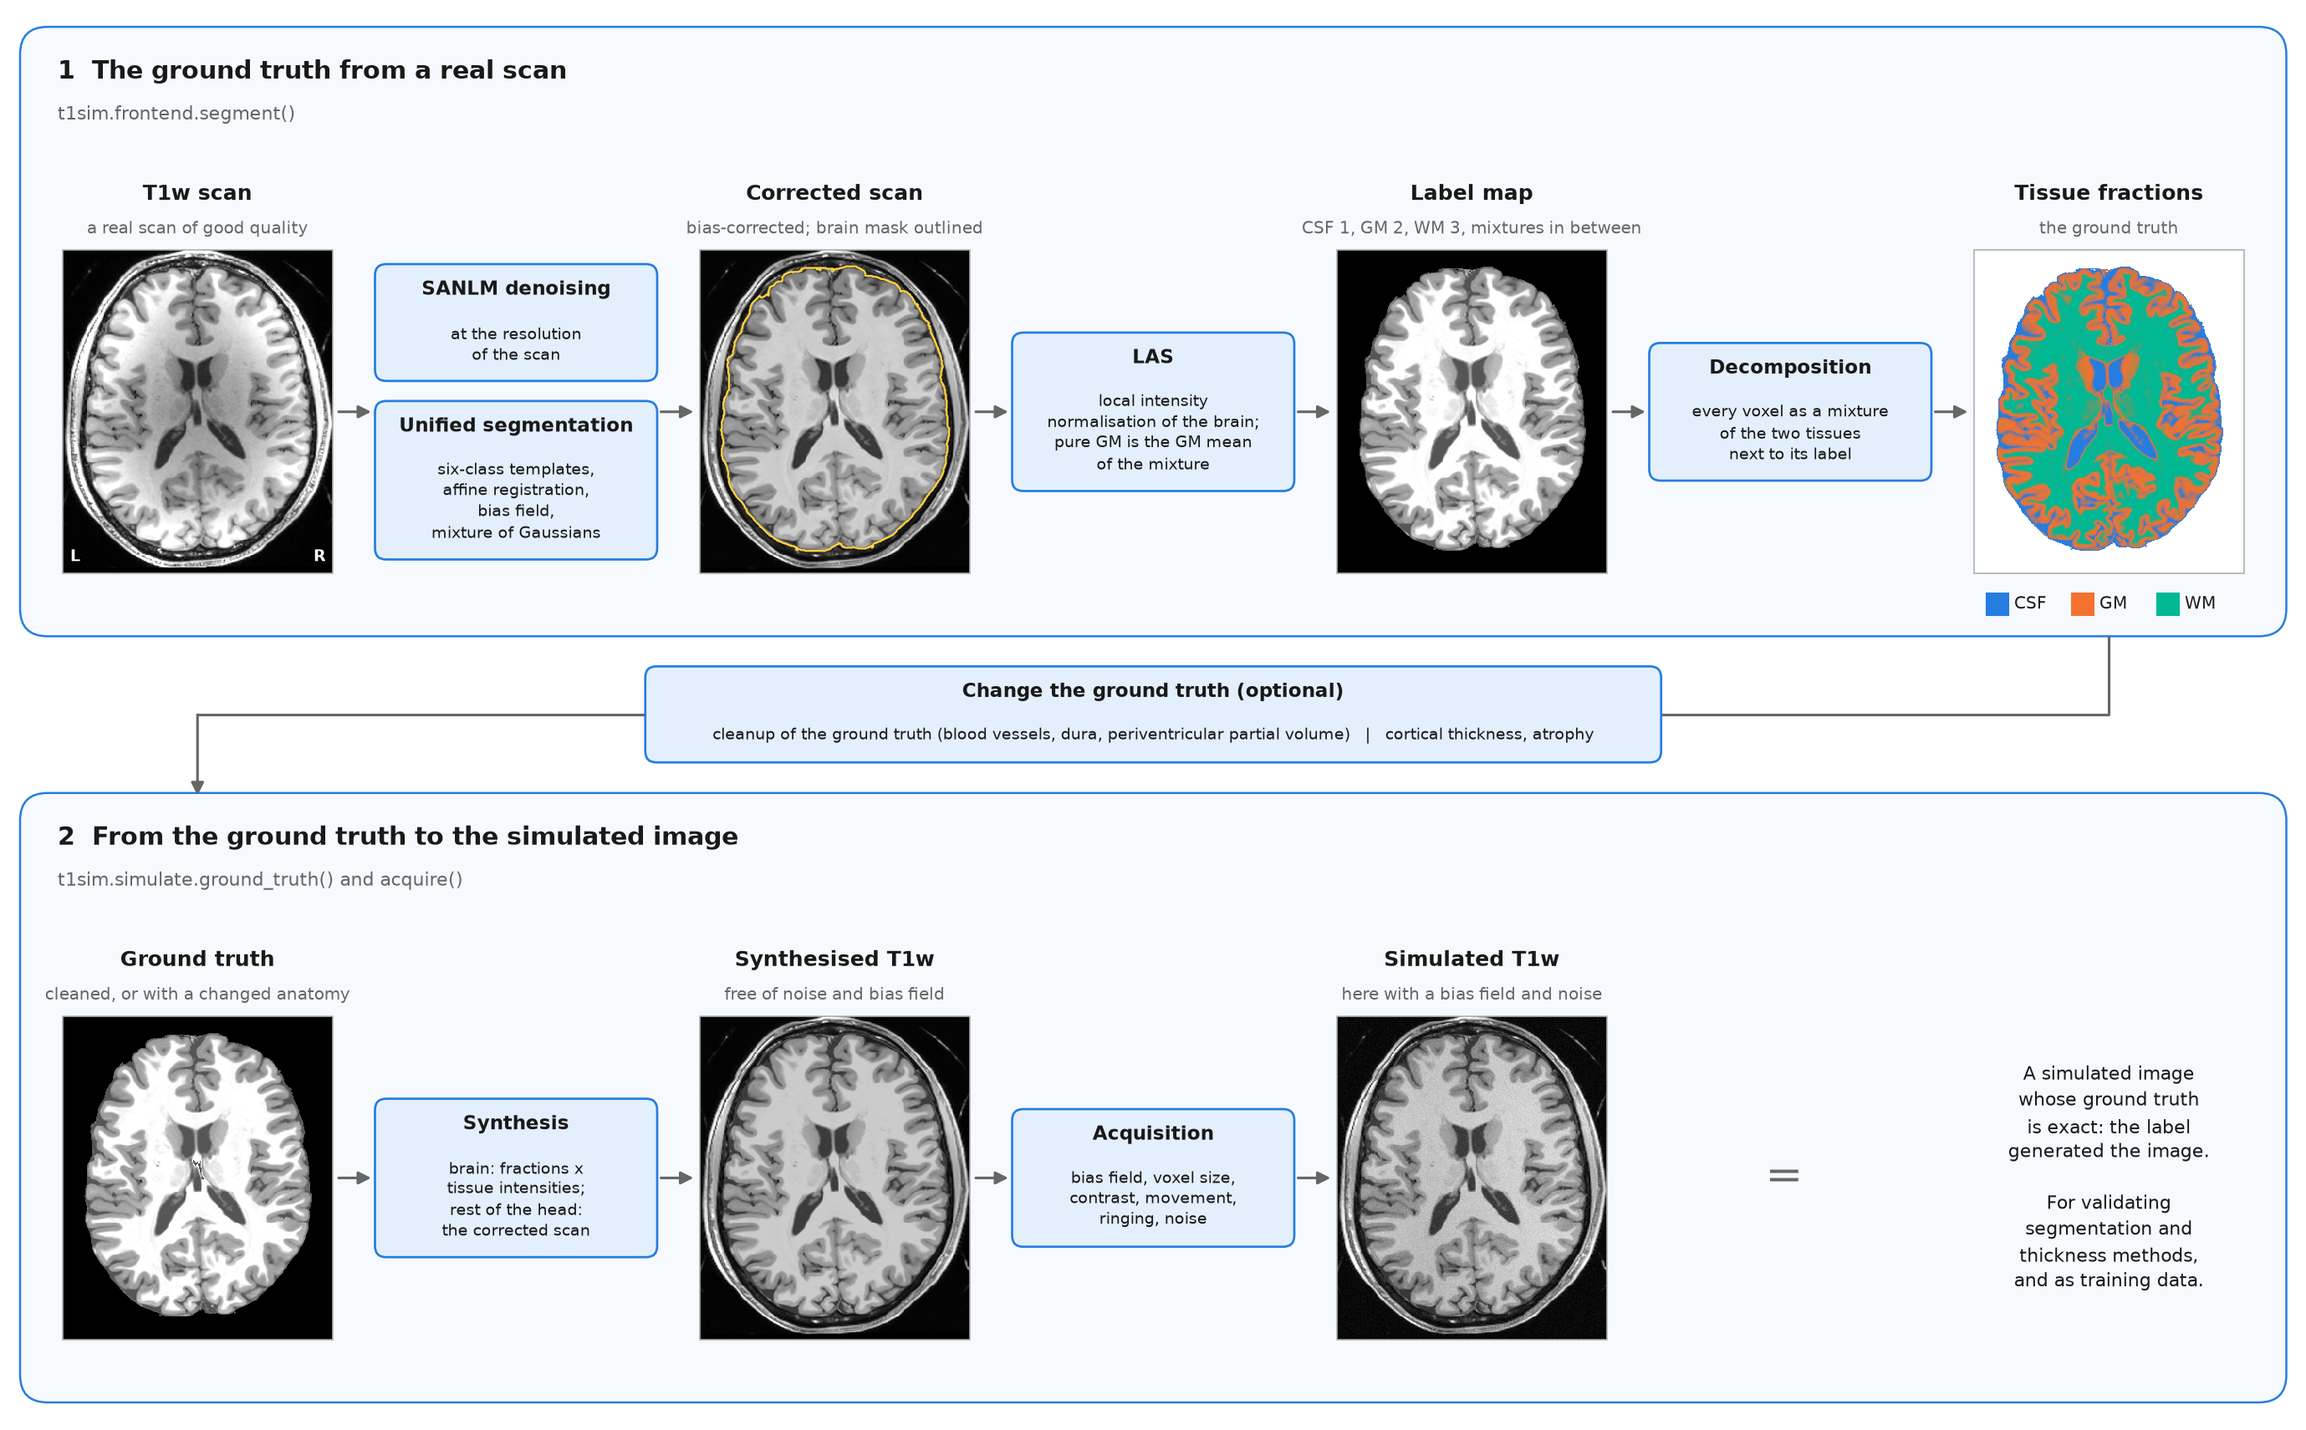
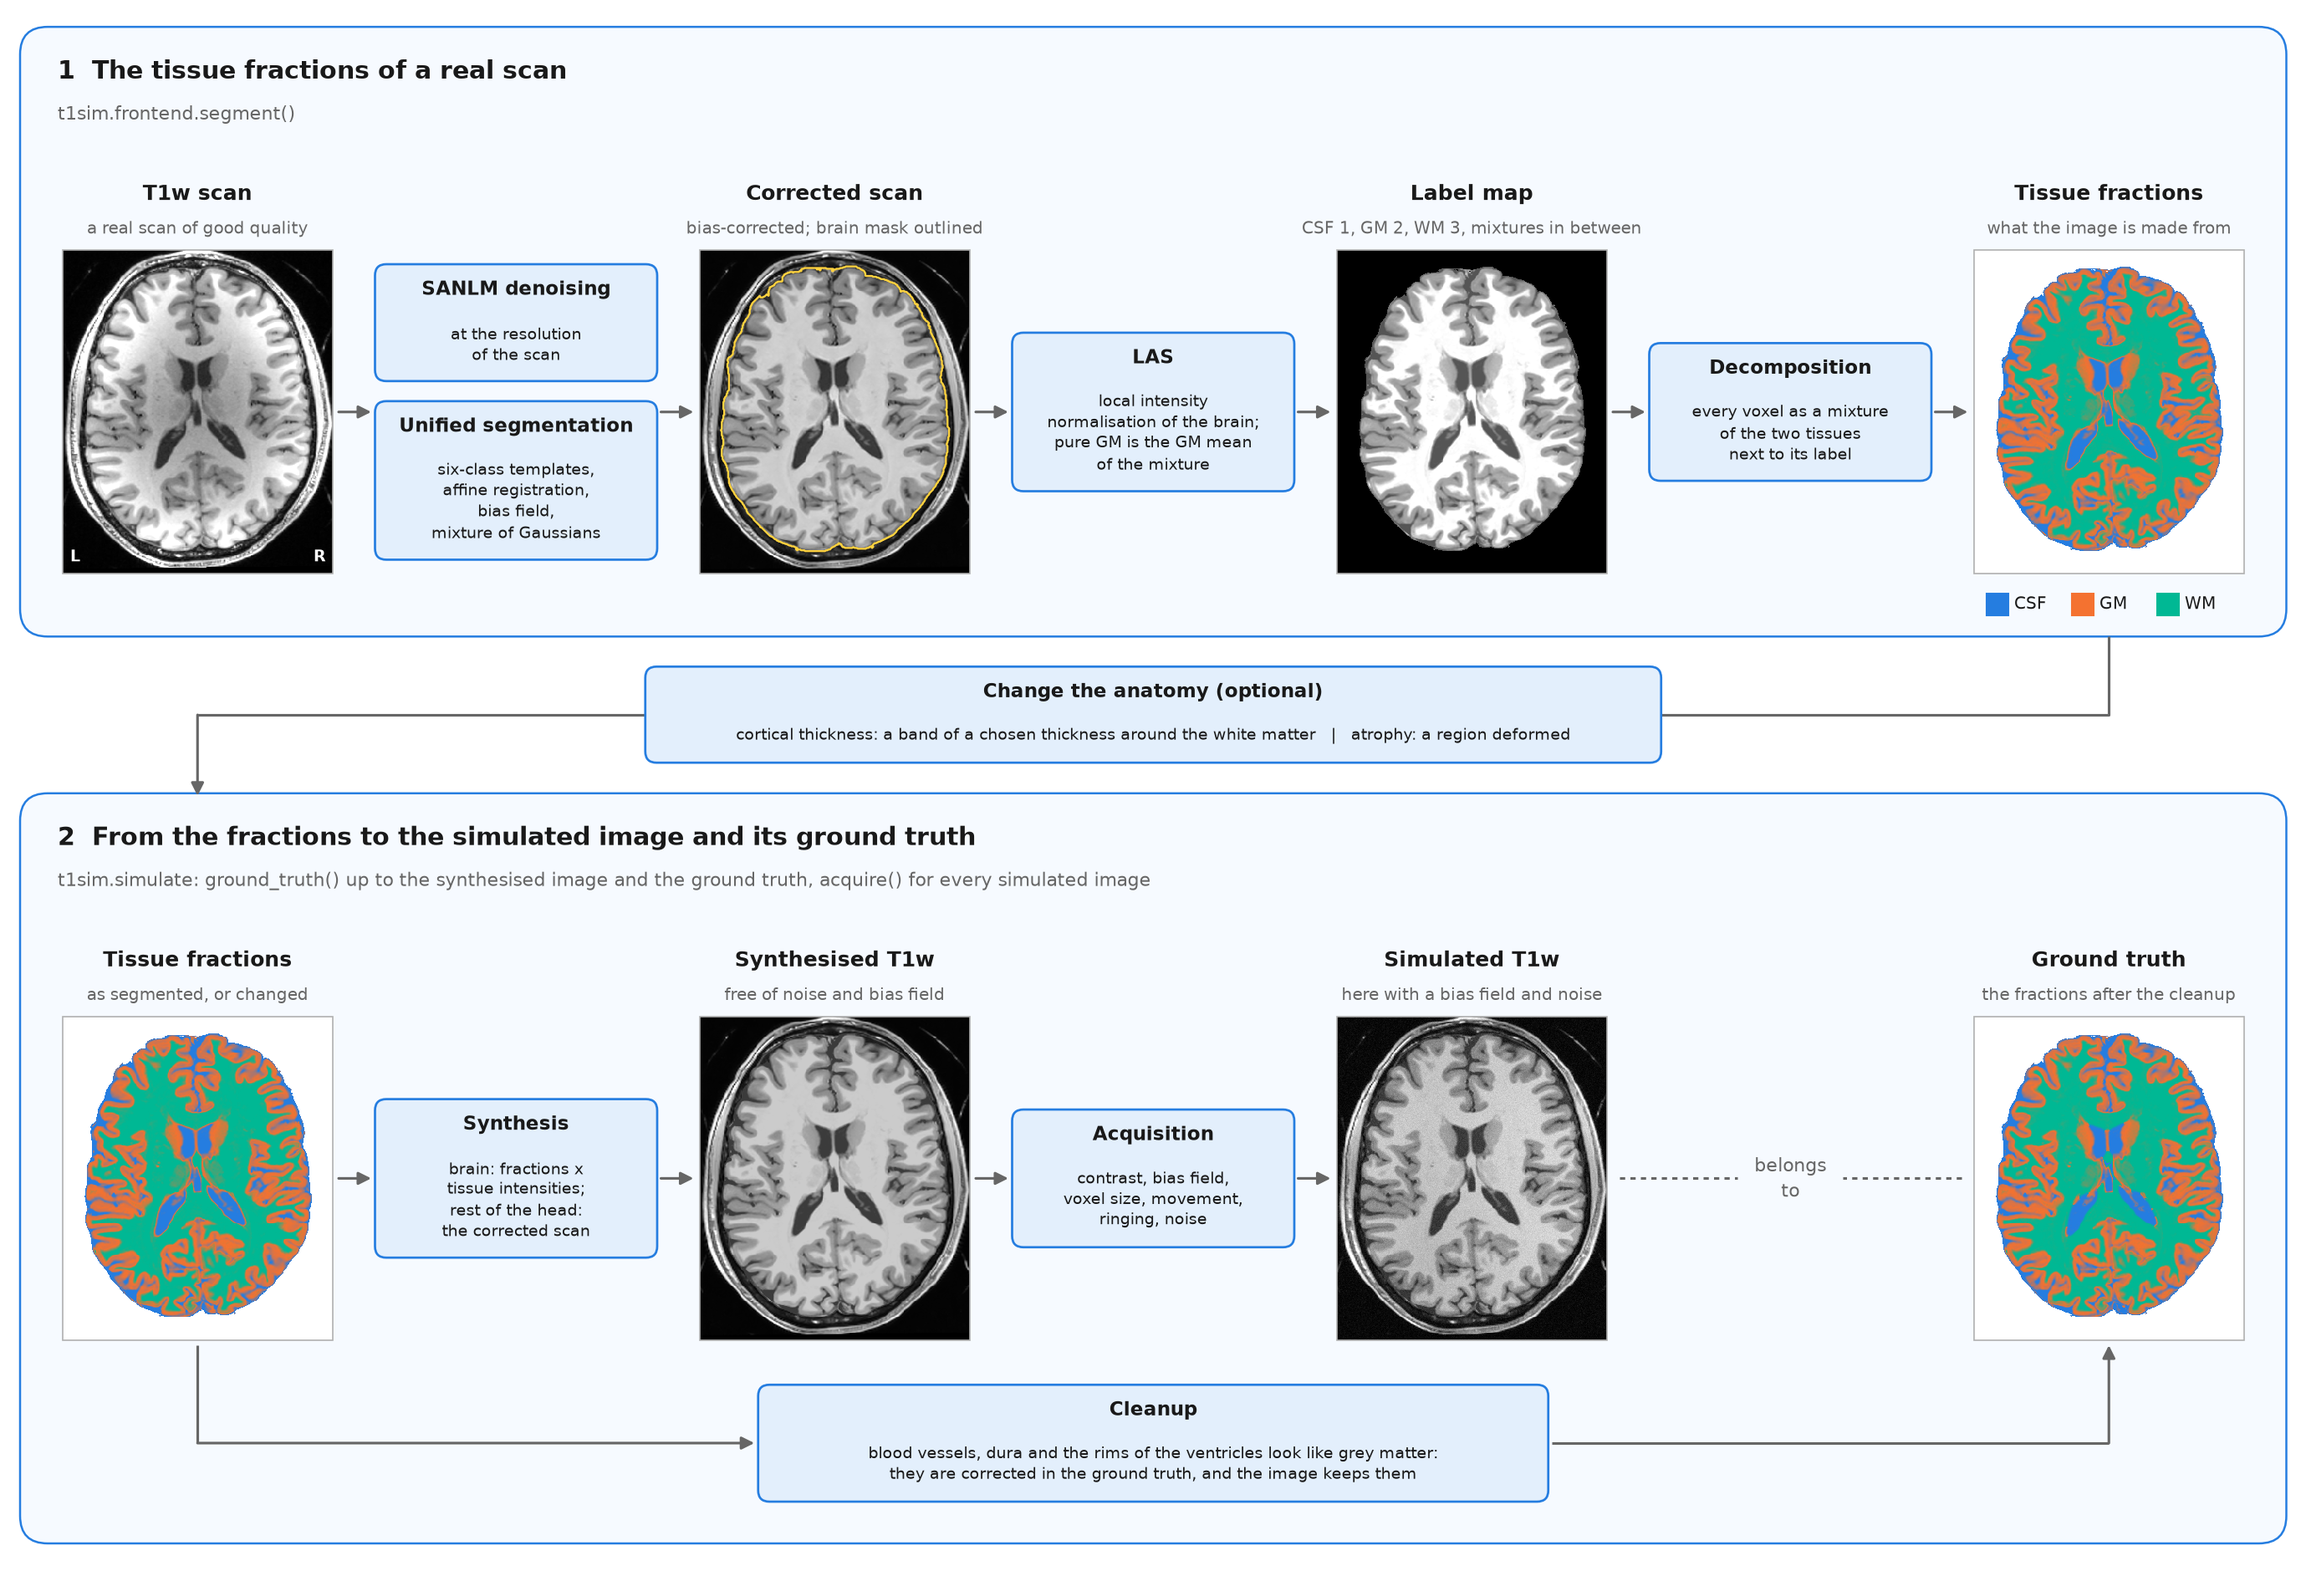
Adjust layout of examples figure in docs
Make the examples figure taller (12.3 to 13.3 in) and adjust the row and label offsets and pitch so the layout has more room. The grey-scale footnote moves into the left column under the two preview images and wraps over several lines. The subtitle of the change panel is shortened. The three docs PNGs are regenerated.

Changed region(s): [[0.0, 0.0929, 0.9978, 0.9912], [0.0312, 0.0, 0.9978, 0.0929], [0.8419, 0.5885, 0.9666, 0.8983]]

diff --git a/docs/make_figures.py b/docs/make_figures.py
@@ -397,12 +397,12 @@ def figure_examples(d, path):
             ("Image after", "rendered from the deformed fractions", d["ex_atrophy"], gray),
             ("Ground truth after", "fraction of grey matter", gm_after,
              {"cmap": _tissue_cmap("GM"), "vmin": 0, "vmax": 1}),
-            ("Change of the ground truth", "grey matter after minus before; region outlined", gm_after - gm_before,
+            ("Change of the ground truth", "after minus before; region outlined", gm_after - gm_before,
              {"cmap": change, "vmin": -0.6, "vmax": 0.6})]),
     ]
 
     aspect = (box[1].stop - box[1].start) / (box[0].stop - box[0].start)
-    fw, fh = 15.6, 12.3
+    fw, fh = 15.6, 13.3
     fig = plt.figure(figsize=(fw, fh), facecolor=SURFACE)
 
     def frame(ax):
@@ -422,7 +422,7 @@ def figure_examples(d, path):
     for n, (title, sub, image) in enumerate((
             ("Synthesised image", "no artefact; the detail is outlined", d["sim_ideal"]),
             ("Bias field", "60%, inverted, strength 3", d["ex_bias"]))):
-        ax = fig.add_axes([0.012, 0.905 - tall - n * (tall + 0.075), wide, tall])
+        ax = fig.add_axes([0.012, 0.878 - tall - n * (tall + 0.075), wide, tall])
         _show(ax, image, box, **gray)
         if n == 0:
             ax.add_patch(Rectangle((zoom[0].start - box[0].start - 0.5, zoom[1].start - box[1].start - 0.5),
@@ -434,10 +434,10 @@ def figure_examples(d, path):
 
     size = 0.182
     height = size * fw / fh
-    x0, pitch_x, pitch_y = 0.238, size + 0.008, height + 0.098
+    x0, pitch_x, pitch_y = 0.238, size + 0.008, height + 0.094
     for r, (heading, panels) in enumerate(rows):
-        top = 0.905 - r * pitch_y
-        fig.text(x0, top + 0.046, heading, fontsize=11.5, color=INK, weight="bold", va="bottom")
+        top = 0.878 - r * pitch_y
+        fig.text(x0, top + 0.043, heading, fontsize=11.5, color=INK, weight="bold", va="bottom")
         for c, (title, sub, image, style) in enumerate(panels):
             ax = fig.add_axes([x0 + c * pitch_x, top - height, size, height])
             shown = _show(ax, image, zoom, **style)
@@ -454,8 +454,9 @@ def figure_examples(d, path):
                 bar.set_ticklabels([f"{t:g}" if style["vmin"] == 0 else f"{t:+g}" if t else "0" for t in ticks])
                 bar.ax.tick_params(labelsize=8.5, colors=INK_SOFT, length=2.5)
                 bar.outline.set_edgecolor("#c8c8c8")
-    fig.text(0.012, 0.03, f"The detail is {ZOOM_MM[2]:.0f} mm wide. All images share one grey scale, "
-             "from 0 to 1.25 times the intensity of white matter.", fontsize=10, color=INK_SOFT)
+    fig.text(0.012, 0.878 - 2 * tall - 0.105, f"The detail is {ZOOM_MM[2]:.0f} mm wide.\nAll images share one grey scale,\n"
+             "from 0 to 1.25 times the intensity\nof white matter.", fontsize=10, color=INK_SOFT, va="top",
+             linespacing=1.4)
     fig.suptitle("What t1sim.simulate.acquire() and a change of the anatomy do", fontsize=15,
                  color=INK, x=0.012, ha="left", y=0.985, weight="bold")
     fig.savefig(path, dpi=150, facecolor=SURFACE)
